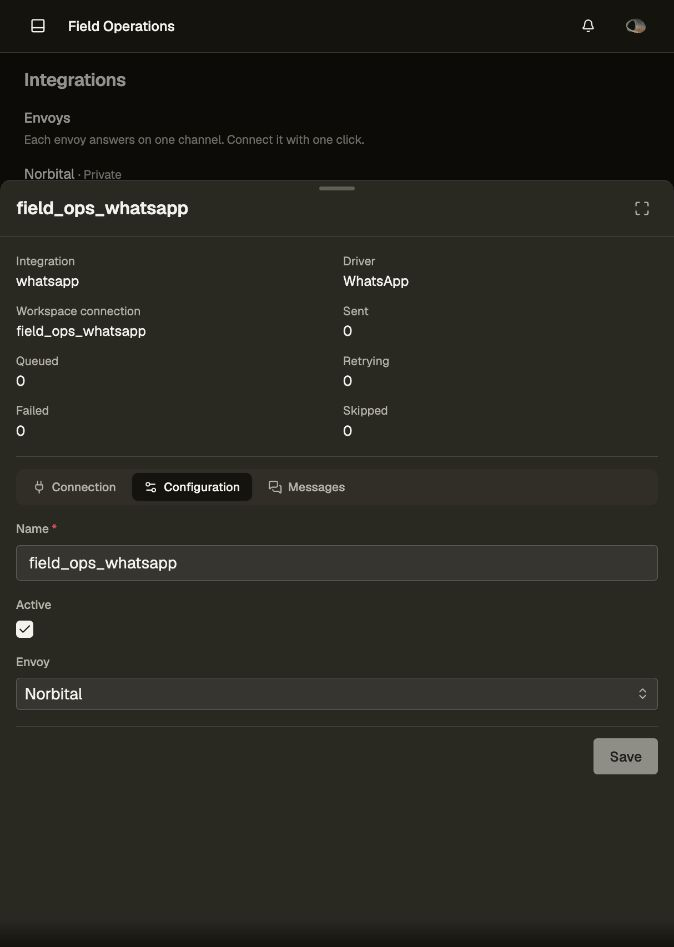
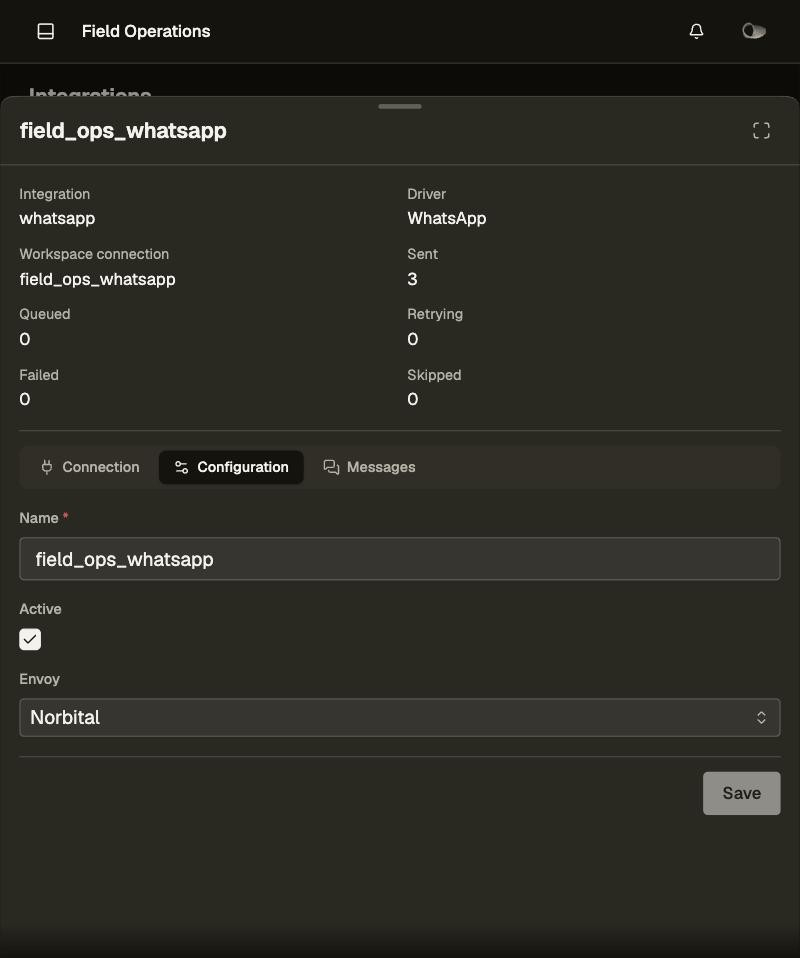
HR: consumption locks, OCBC FAST bank file, exit grounds and AL encashment, cutoff fix, PCB SOCSO/EIS relief; probe READMEs
- leave is charged over the attendance window (time off) and pay period (other entries)
- consumed claims, leave and ad hoc open read-only with an Included in payroll lock
- loan editor: plain locked rows, Cancel resets, principal and period required
- leave/claims/ad hoc search by employee number or name
- MY exit grounds are the Infotech list; AL encashment by ground with a per-employee
  override; transfers pay no termination benefit (reg. 8)
- PCB TP1 SOCSO/EIS relief (socso_eis_relief) for the employee data request
- OCBC Singapore FAST payroll bank format from the owner's sample
- salary listing: label-only headers, coloured group bands; PH schemes SSS, PHIL, PAG-IBIG
  from catalogue labels and order
- Field Operations envoy and HR probe walkthroughs with redacted screenshots
- CI: SKIP_CI_TESTS skips projection lifecycle suites

diff --git a/README.md b/README.md
@@ -294,7 +294,7 @@ An administrator opens **More → System → Integrations**
 `field_ops_whatsapp` source role. This template already declares its named WhatsApp connection;
 use that instance rather than creating another channel for the same Envoy.
 
-![A connected WhatsApp agent channel with Manage, Disconnect and its import start](docs/screenshots/14-envoy-integrations.jpg)
+![A connected WhatsApp agent channel with Manage, Disconnect and its import start (account number redacted)](docs/screenshots/14-envoy-integrations.jpg)
 
 1. For an unpaired WhatsApp channel, choose **Connect**. For an already connected channel,
    choose **Manage**. **Manage** opens that connection's **Connection**,
@@ -325,9 +325,11 @@ use that instance rather than creating another channel for the same Envoy.
 
 ![Available connection providers](docs/screenshots/15-envoy-provider-choice.jpg)
 
+![Connection tab of the paired instance: provider, account (redacted) and import start](docs/screenshots/35-envoy-connection.jpg)
+
 ![Envoy deployment and active state](docs/screenshots/16-envoy-configuration.jpg)
 
-![Integration message history](docs/screenshots/17-envoy-messages.jpg)
+![Integration message history with delivered Envoy replies (numbers and names redacted)](docs/screenshots/17-envoy-messages.jpg)
 
 ![WhatsApp provider setup](docs/screenshots/18-envoy-whatsapp-setup.jpg)
 
@@ -359,6 +361,27 @@ local state without a new QR code. Automated Envoy tests
 use a fake WhatsApp link and scripted model; they validate admission, authority, message/photo
 filing and receive limits. Those tests do not establish real-provider delivery of every report
 or attachment scenario.
+
+### Envoy probe results (local, 21 October 2026)
+
+Manual probe of the persistent local workspace (`pnpm run env -- serve --template=field-operations
+--port=4183`, origin `http://field-operations.localhost:4183`), signed in as the founder
+administrator. Phone numbers and names are covered with solid boxes.
+
+| Probe                                           | Steps                                                                                                                                | Result                                                                                                                                                                                                                                                                                                                                                                                                            |
+| ----------------------------------------------- | ------------------------------------------------------------------------------------------------------------------------------------ | ----------------------------------------------------------------------------------------------------------------------------------------------------------------------------------------------------------------------------------------------------------------------------------------------------------------------------------------------------------------------------------------------------------------- |
+| 1. Envoy configuration                          | **System → Integrations** → **Norbital · Private** → **Manage**: Connection, Configuration, Messages.                                | **PASS.** WhatsApp shows **Connected** with **Manage**/**Disconnect**; **Configuration** has **Envoy: Norbital**, **Active** on. The server was restarted (normal `serve`, auto-resumed saved state) after pairing and came back Connected with no new QR code.                                                                                                                                                   |
+| 2. Envoy conversation                           | A linked member DMs the paired number “What assignments do i have?”; open **Norbius → conversation list → Norbital (DM)**.           | **PASS (existing turn).** The transcript shows two `Read job assignments` steps and a reply that no assignment names the sender as its contractor, which matches the data. The turn was sent before this probe; no new message could be sent during it.                                                                                                                                                           |
+| 3. Envoy actions (status update / photo report) | DM a report naming an assigned job (“…is complete; photo attached”), then reopen the job's record, **Conversation** tab and history. | **NOT RUN.** No WhatsApp client for the linked member's number was available to the probe.                                                                                                                                                                                                                                                                                                                        |
+| 4. Policy boundary                              | DM a request outside the Envoy policy and verify refusal.                                                                            | **NOT RUN** (same reason). For a DM, the linked member's own authority is added to the Envoy policy (`dm: 'union'`), so a test of the policy alone needs a contractor-only member or a group turn. The policy itself grants read and status/summary updates on **any** assignment, so asking about another person's assignment is allowed, not refused. A boundary test asks to create, delete or reassign a job. |
+
+![The Envoy's DM transcript: the member's query, the scoped assignment reads and the reply](docs/screenshots/36-envoy-conversation.jpg)
+
+To finish probes 3 and 4, send from the linked member's own WhatsApp to the paired number:
+(a) a completion report with a photo for a job assigned to that member, then verify status,
+summary, photo and **Conversation** on the job and the Envoy as actor in its history; (b) from a
+contractor-only member, “Reassign <job> to someone else” or “Delete <job>”, and verify the reply
+refuses and nothing changes.
 
 ## Data model
 
